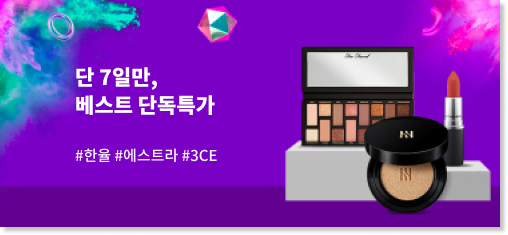
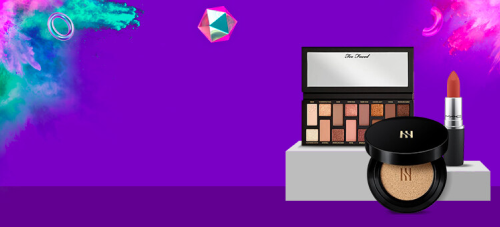
refactor: position 속성 생각해서 다시 적용하기

diff --git a/soryeongk/style/main.css b/soryeongk/style/main.css
@@ -21,8 +21,12 @@ html {
     font-family: "NotoSans";
     font-size: 10px;
     letter-spacing: 0;
+}
+
+body {
     display: flex;
-    justify-content: center;
+    flex-direction: column;
+    align-items: center;
 }
 
 #red {
@@ -56,6 +60,10 @@ html {
 img.arrow {
     width: 1.6rem;
     height: 3.6rem;
+}
+
+header {
+    width: 1024px;
 }
 
 header nav.top {
@@ -147,11 +155,15 @@ section.main-top {
     align-items: center;
 }
 
-section.main-top nav.menu a {
+section.main-top nav.menu {
     font-size: 2rem;
     line-height: 2rem;
     font-weight: bold;
-    margin-right: 2rem;
+    text-align: center;
+}
+
+section.main-top nav.menu a + a {
+    margin-left: 0.5rem;
 }
 
 section.main-top nav.menu a:hover {
@@ -172,18 +184,11 @@ section.main-top section.rank span {
 }
 
 section.main-banner {
-    position: absolute;
-    width: 100%;
-    left: 0;
-    margin-top: 2rem
-}
-
-section.main-banner img.main-banner {
-    width: 100%;
-}
-
-section.main-banner img.main-banner {
-    position: absolute;
+    background-image: url(../asset/eventBanner/mainBanner.svg);
+    position: relative;
+    width: 100vw;
+    margin-top: 2rem;
+    height: 77.9rem;
 }
 
 section.main-banner section.main-banner-text {
@@ -261,34 +266,34 @@ section.event-banner {
     flex-direction: row;
     justify-content: space-between;
     left: 45rem;
-    top: 72.9rem;
+    bottom: -5rem;
 }
 
-main {
-    position: absolute;
-    top: 114rem;
+main.product-recommend {
+    position: relative;
+    margin-top: 15rem;
 }
 
-main section.product-recommend section.header {
+main.product-recommend section.header {
     display: flex;
     flex-direction: row;
     align-items: center;
     margin-bottom: 2.5rem;
 }
 
-main section.product-recommend section.header span#gray7 {
+main.product-recommend section.header span#gray7 {
     font-size: 1.5rem;
     line-height: 1.8rem;
     margin-right: 13.5rem;
 }
 
-main section.product-recommend section.header a#gray7 {
+main.product-recommend section.header a#gray7 {
     font-size: 1.5rem;
     line-height: 1.8rem;
     margin-left: 28.1rem;
 }
 
-main section.product-recommend section.header span#bold {
+main.product-recommend section.header span#bold {
     font-size: 2.4rem;
     line-height: 2.4rem;
     font-weight: bold;
@@ -378,8 +383,104 @@ article.product .product-desc .product-title span {
     margin: 0;
 }
 
-.exclusive-event {
+section.exclusive-event {
+    position: relative;
     background-image: url(../asset/eventBanner/exclusiveEventBanner.png);
+    width: 100vw;
+    height: 60rem;
+    margin-top: 21.4rem;
+    padding: 0 45rem;
+    display: flex;
+    flex-direction: column;
+    align-items: center;
+}
+
+.exclusive-event section.banner-wrapper {
+    position: absolute;
+    top: -11.4rem;
+    width: 1024px;
+    display: flex;
+    align-items: center;
+    justify-content: space-between;
+}
+
+section.banner-wrapper article.event {
+    width: 50rem;
+    height: 22.7rem;
+    padding: 6.2rem 5.7rem;
+}
+
+section.banner-wrapper article.event.banner1 {
+    background-image: url(../asset/eventBanner/2-1.png);
+}
+
+section.banner-wrapper article.event.banner2 {
+    background-image: url(../asset/eventBanner/2-2.png);
+}
+
+section.banner-wrapper article.event p.event-title {
+    font-size: 2.1rem;
+    font-weight: bold;
+    color: white;
+    line-height: 1.35;
+    margin-bottom: 2.7rem;
+}
+
+section.banner-wrapper article.event span.event-tag {
+    font-size: 1.5rem;
+    color: white;
+    line-height: 1.35;
+}
+
+section.banner-slider-wrapper {
+    position: absolute;
+    top: 16.4rem;
+    display: flex;
+    flex-direction: column;
+    align-items: center;
+    width: 97rem;
+}
+
+section.banner-slider-wrapper p.slider-title {
+    font-weight: bold;
+    font-size: 2.4rem;
+    line-height: 3.12rem;
+    margin-bottom: 3rem;
+}
+
+section.banner-slider-wrapper section.banner-slider {
+    display: flex;
+    justify-content: space-between;
     width: 100%;
-    left: 0;
+}
+
+section.banner-slider article.banner-slide {
+    display: flex;
+    flex-direction: column;
+    align-items: center;
+}
+
+section.banner-slider article.banner-slide img {
+    width: 31rem;
+    height: 24rem;
+    
+}
+
+section.banner-slider article.banner-slide p.slide-content {
+    font-weight: bold;
+    font-size: 2.4rem;
+    margin-top: 1.1rem;
+}
+
+section.banner-slider img.arrow {
+    position: absolute;
+    top: 16.5rem;
+}
+
+section.banner-slider img.arrow.left {
+    left: -4.5rem;
+}
+
+section.banner-slider img.arrow.right {
+    right: -4.5rem;
 }

diff --git a/soryeongk/main.html b/soryeongk/main.html
@@ -62,25 +62,25 @@
         </details>
       </nav>
     </section>
-  </header>
-  <section class="main-top">
-    <nav class="menu">
-      <a href="#">오늘의 특가</a>
-      <a href="#">신상</a>
-      <a href="#">랭킹</a>
-      <a href="#">프리미엄관</a>
-      <a href="#">오늘드림</a>
-      <a href="#">기획전</a>
-      <a href="#">세일</a>
-      <a href="#">기프트카드</a>
-    </nav>
-    <section class="rank">
-      <p id="pink">실시간 view 랭킹!</p>
-      <a href="#" id="grayA">가히 김고은 멀티밤</a>
+    <section class="main-top">
+      <nav class="menu">
+        <a href="#">오늘의 특가</a>
+        <a href="#">신상</a>
+        <a href="#">랭킹</a>
+        <a href="#">프리미엄관</a>
+        <a href="#">오늘드림</a>
+        <a href="#">기획전</a>
+        <a href="#">세일</a>
+        <a href="#">기프트카드</a>
+      </nav>
+      <section class="rank">
+        <p id="pink">실시간 view 랭킹!</p>
+        <a href="#" id="grayA">가히 김고은 멀티밤</a>
+      </section>
     </section>
-  </section>
+  </header>
+  
   <section class="main-banner">
-    <img class="main-banner" src="asset/mainBanner.svg" alt="">
     <img class="banner arrow left" src="asset/arrowLeft.svg" alt="">
     <section class="main-banner-text">
       <p id="purple">9월 최대 70% 올영 세일!</p>
@@ -150,8 +150,7 @@
       <img src="asset/eventBanner/1-2.png" alt="">
     </section>
   </section>
-  <main>
-    <section class="product-recommend">
+  <main class="product-recommend">
       <section class="header">
         <span id="gray7">다른 상품도 추천해드릴게요!</span>
         <span id="bold">김소령님만을 위한 추천 상품이에요!</span>
@@ -231,32 +230,38 @@
           </div>
         </article>
       </section>
-    </section>
   </main>
   <section class="exclusive-event">
     <section class="banner-wrapper">
-      <article class="banner-1">
-        <p>단 7일만,<br/>베스트 단독특가</p>
-        <span>태그1</span><span>태그2</span><span>태그3</span>
+      <article class="event banner1">
+        <p class="event-title">단 7일만,<br/>베스트 단독특가</p>
+        <span class="event-tag">#태그1</span><span class="event-tag">#태그2</span><span class="event-tag">#태그3</span>
       </article>
-      <article class="banner-2">
-        <p>단 7일만,<br/>베스트 단독특가</p>
-        <span>태그1</span><span>태그2</span><span>태그3</span>
+      <article class="event banner2">
+        <p class="event-title">단 7일만,<br/>베스트 단독특가</p>
+        <span class="event-tag">#태그1</span><span class="event-tag">#태그2</span><span class="event-tag">#태그3</span>
       </article>
     </section>
-    <section class="banner-slider">
-      <article>
-        <img src="" alt="">
-        <p>오뚜기 스프에 슾며들기</p>
-      </article>
-      <article>
-        <img src="" alt="">
-        <p>오뚜기 스프에 슾며들기</p>
-      </article>
-      <article>
-        <img src="" alt="">
-        <p>오뚜기 스프에 슾며들기</p>
-      </article>
+    <section class="banner-slider-wrapper">
+      <p class="slider-title">
+        <span id="pink">!</span>오직 올리브영에서만<span id="pink">!</span>
+      </p>
+      <section class="banner-slider">
+        <img class="banner arrow left" src="asset/arrowLeft.svg" alt="">
+        <article class="banner-slide">
+          <img class="event1" src="asset/eventBanner/3-1.png" alt="슬라이더 이미지">
+          <p class="slide-content">오뚜기 스프에 슾며들기</p>
+        </article>
+        <article class="banner-slide">
+          <img class="event2" src="asset/eventBanner/3-2.png" alt="슬라이더 이미지">
+          <p class="slide-content">오뚜기 스프에 슾며들기</p>
+        </article>
+        <article class="banner-slide">
+          <img class="event3" src="asset/eventBanner/3-3.png" alt="슬라이더 이미지">
+          <p class="slide-content">오뚜기 스프에 슾며들기</p>
+        </article>
+        <img class="banner arrow right" src="asset/arrowright.svg" alt="">
+      </section>
     </section>
   </section> 
   
